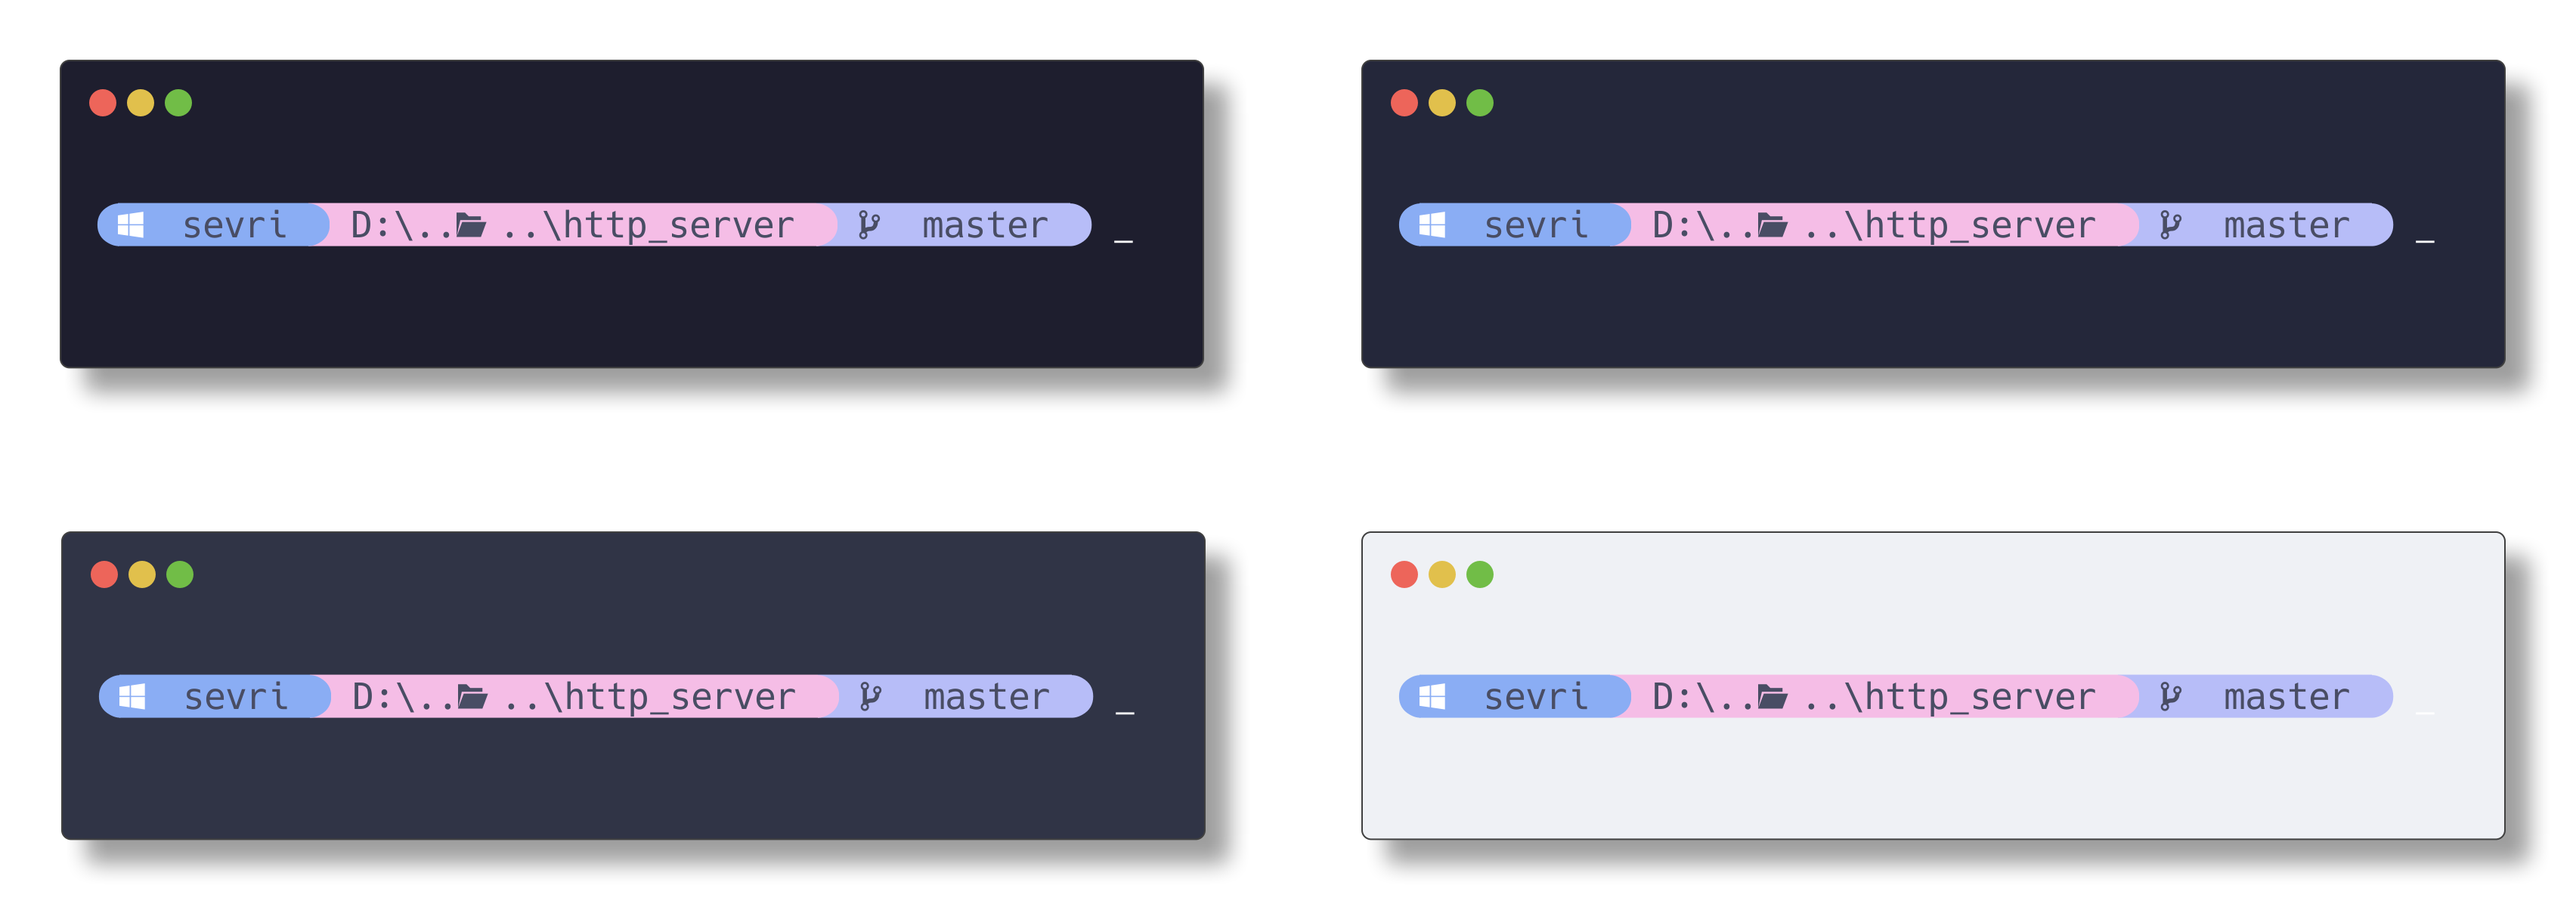
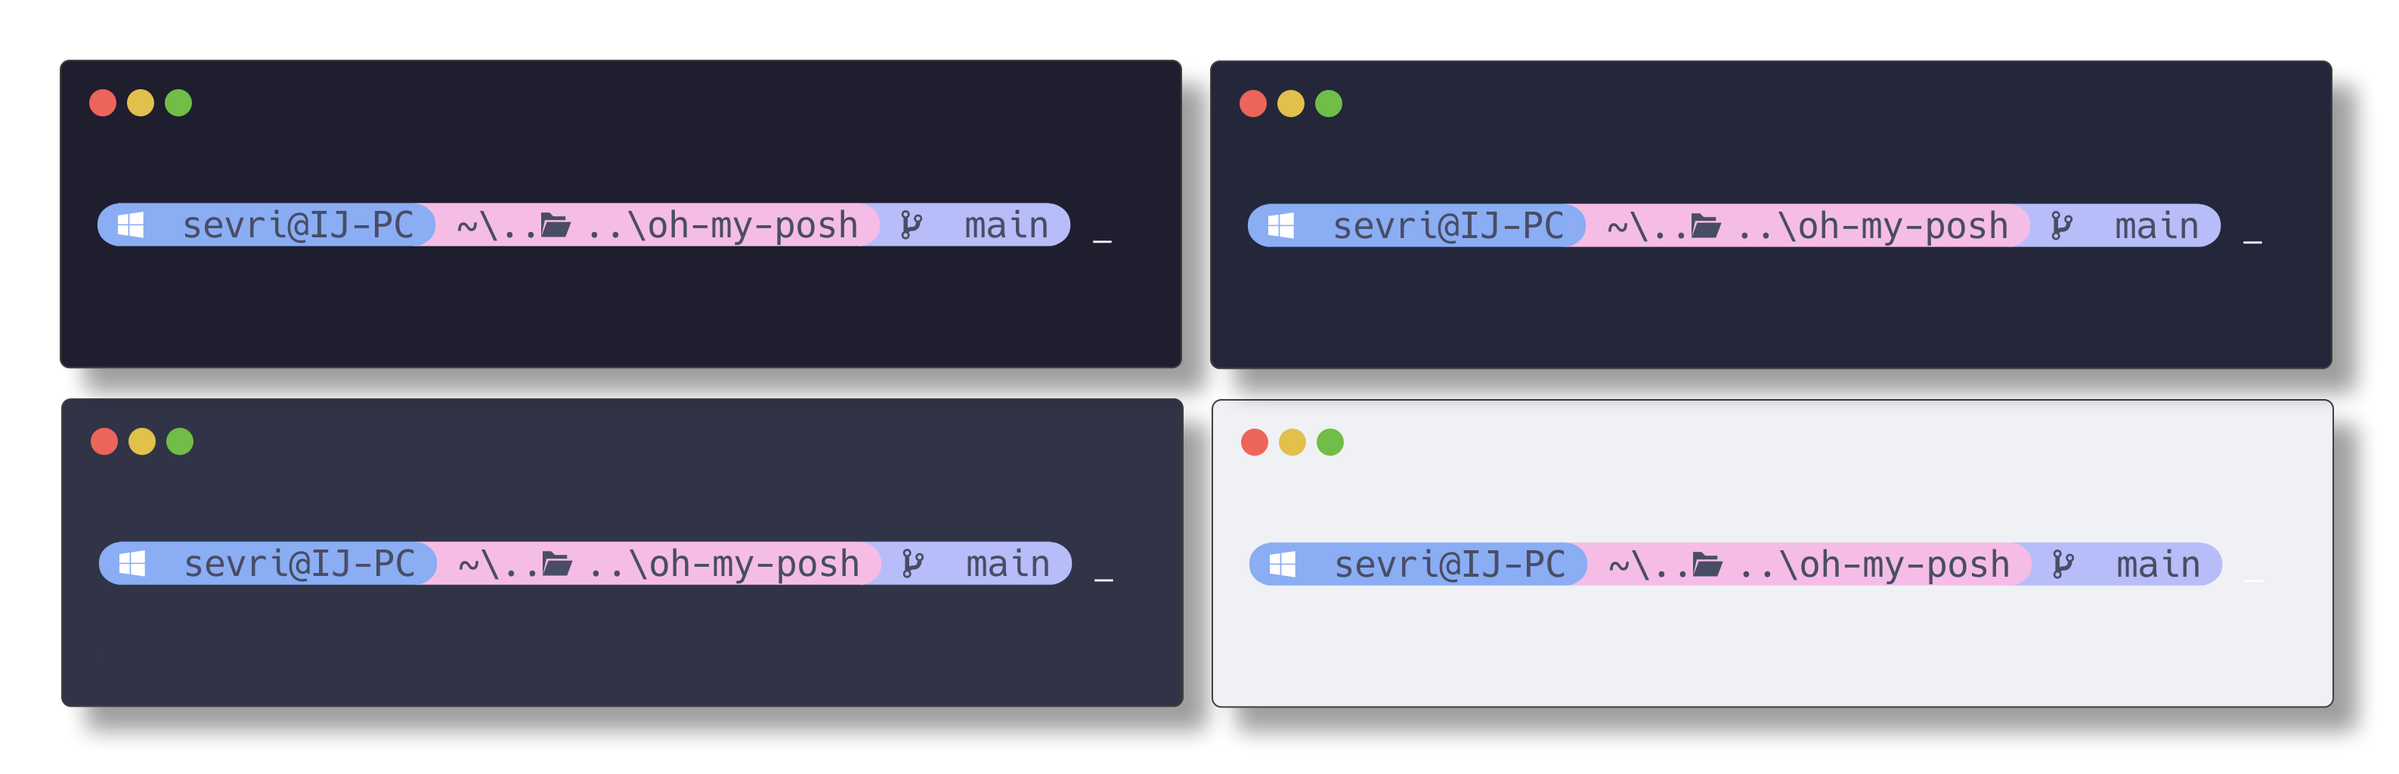
Add slim themes

diff --git a/README.md b/README.md
@@ -5,24 +5,26 @@
 	<img src="https://raw.githubusercontent.com/catppuccin/catppuccin/main/assets/misc/transparent.png" height="30" width="0px"/>
 </h3>
 
+![catppuccin_slim](https://github.com/IrwinJuice/catppuccin.omp/blob/main/assets/catppuccin_all_slim.png)
+
 ![catppuccin](https://github.com/IrwinJuice/catppuccin.omp/blob/main/assets/catppuccin_all.png)
 # Previews
 
 <details>
 <summary>Mocha</summary>
-<img src="https://github.com/IrwinJuice/catppuccin.omp/blob/main/assets/catppuccin_mocha.png"/>
+<img src="https://github.com/IrwinJuice/catppuccin.omp/blob/main/assets/_catppuccin_mocha_slim.png"/>
 </details>
 <details>
 <summary>Macchiato</summary>
-<img src="https://github.com/IrwinJuice/catppuccin.omp/blob/main/assets/catppuccin_macchiato.png"/>
+<img src="https://github.com/IrwinJuice/catppuccin.omp/blob/main/assets/_catppuccin_macchiato_slim.png"/>
 </details>
 <details>
 <summary>Frappe</summary>
-<img src="https://github.com/IrwinJuice/catppuccin.omp/blob/main/assets/catppuccin_frapp.png"/>
+<img src="https://github.com/IrwinJuice/catppuccin.omp/blob/main/assets/_catppuccin_frappe_slim.png"/>
 </details>
 <details>
 <summary>Latte</summary>
-<img src="https://github.com/IrwinJuice/catppuccin.omp/blob/main/assets/catppuccin_latte.png"/>
+<img src="https://github.com/IrwinJuice/catppuccin.omp/blob/main/assets/_catppuccin_latte_slim.png"/>
 </details>
 
 ## Usage ([Windows Terminal](https://github.com/Microsoft/Terminal))
